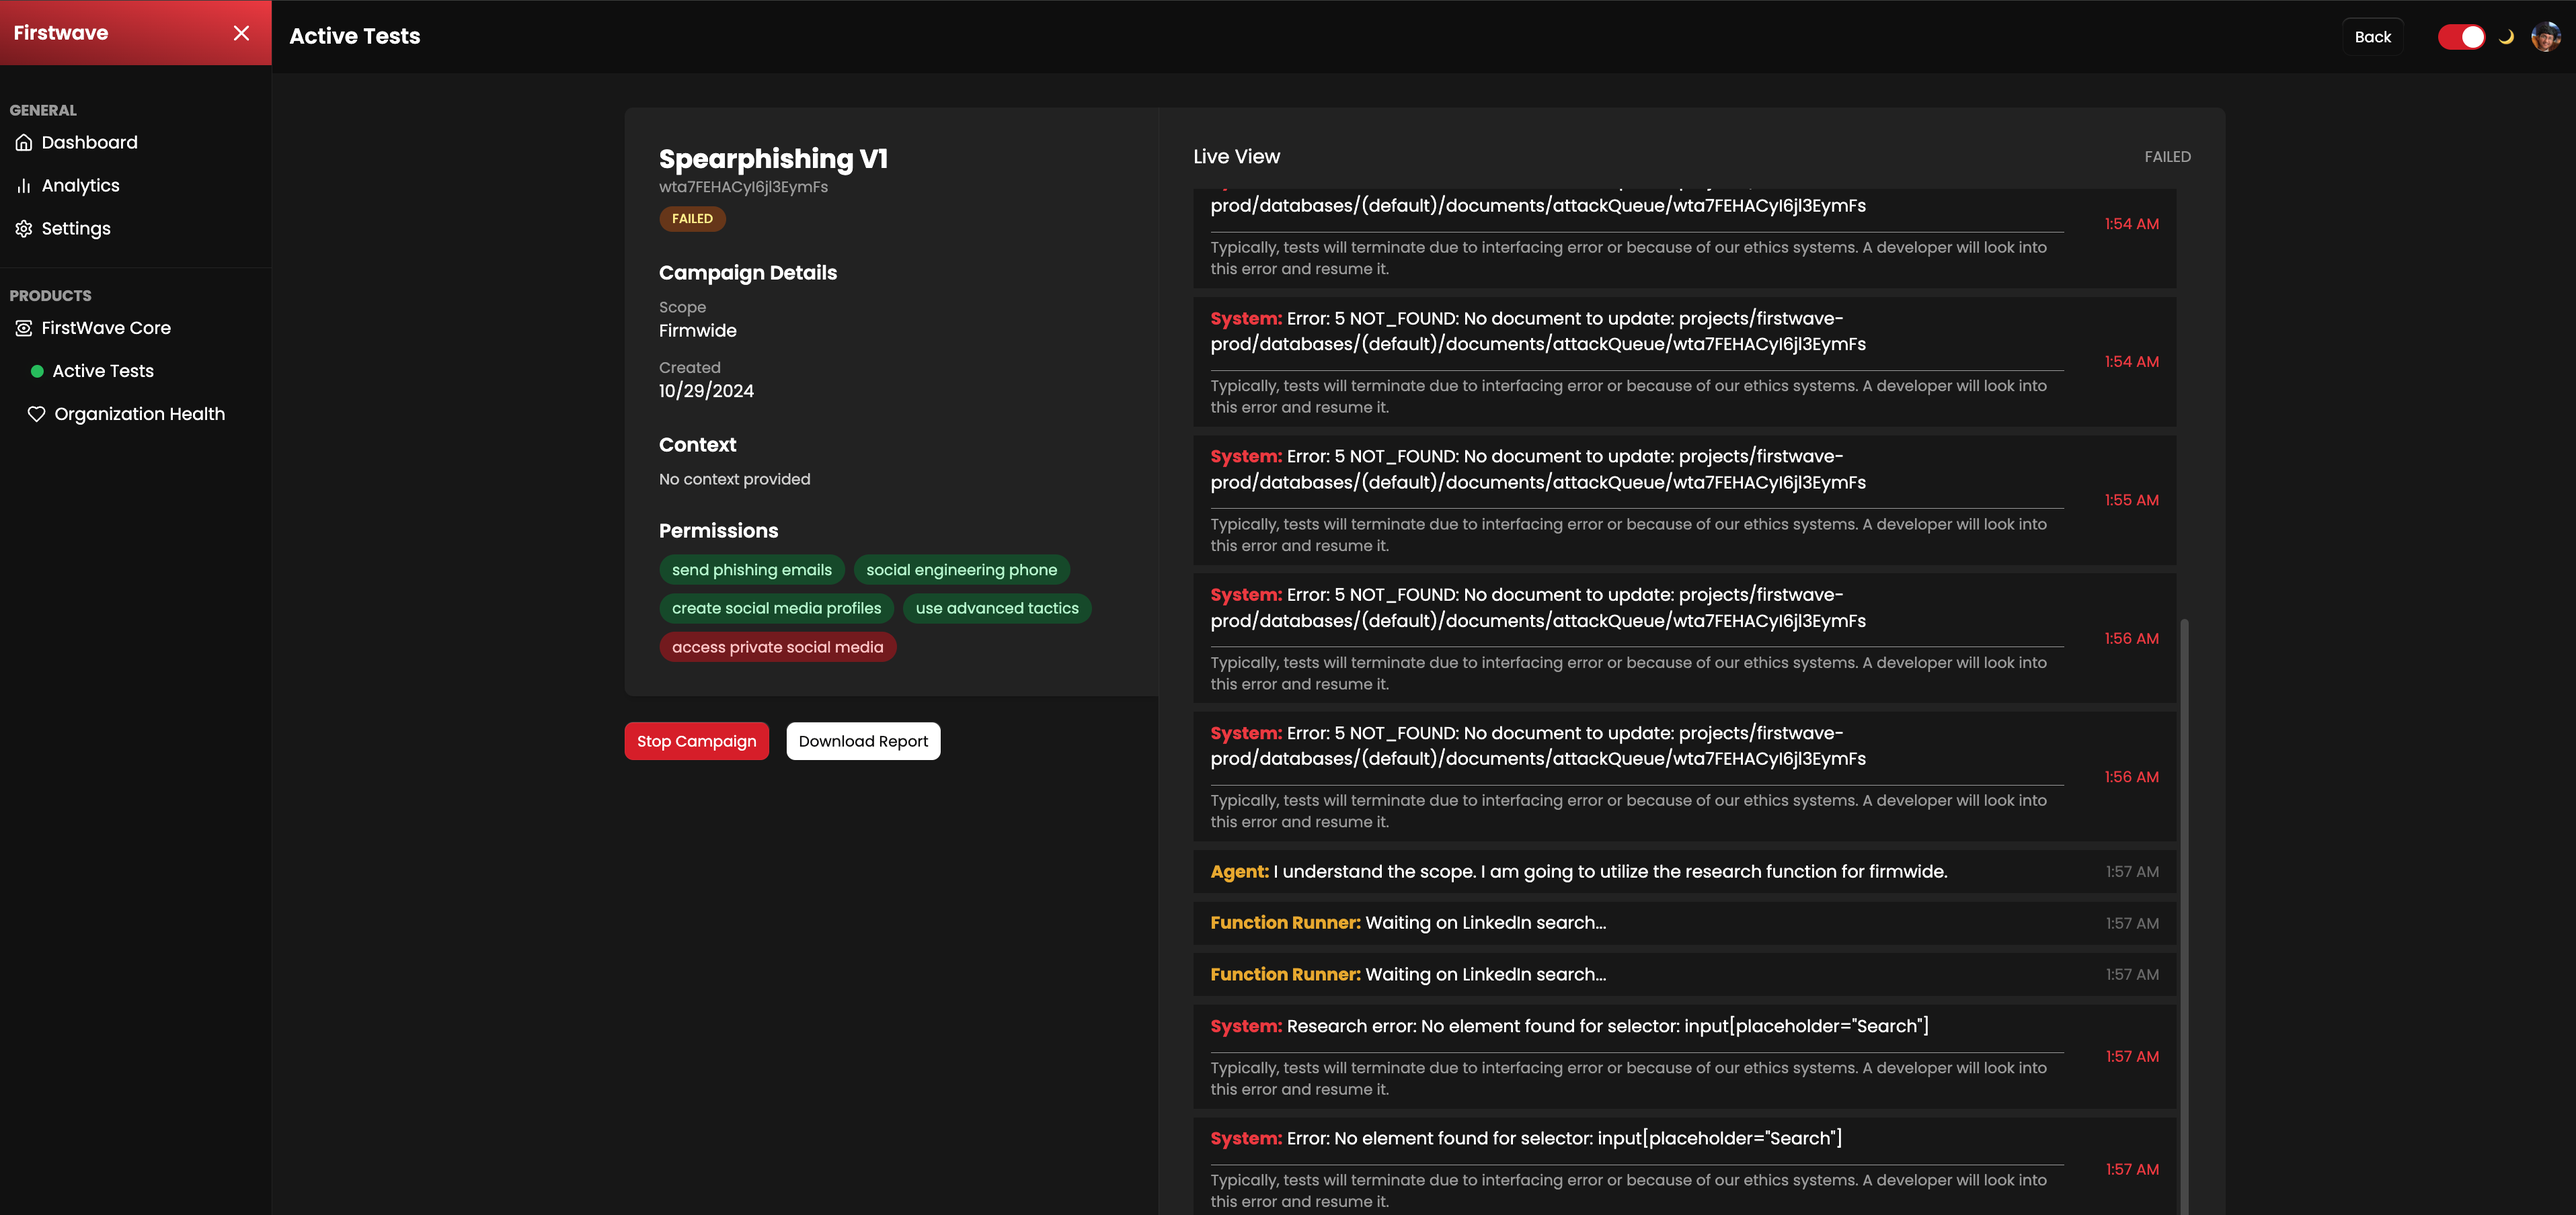
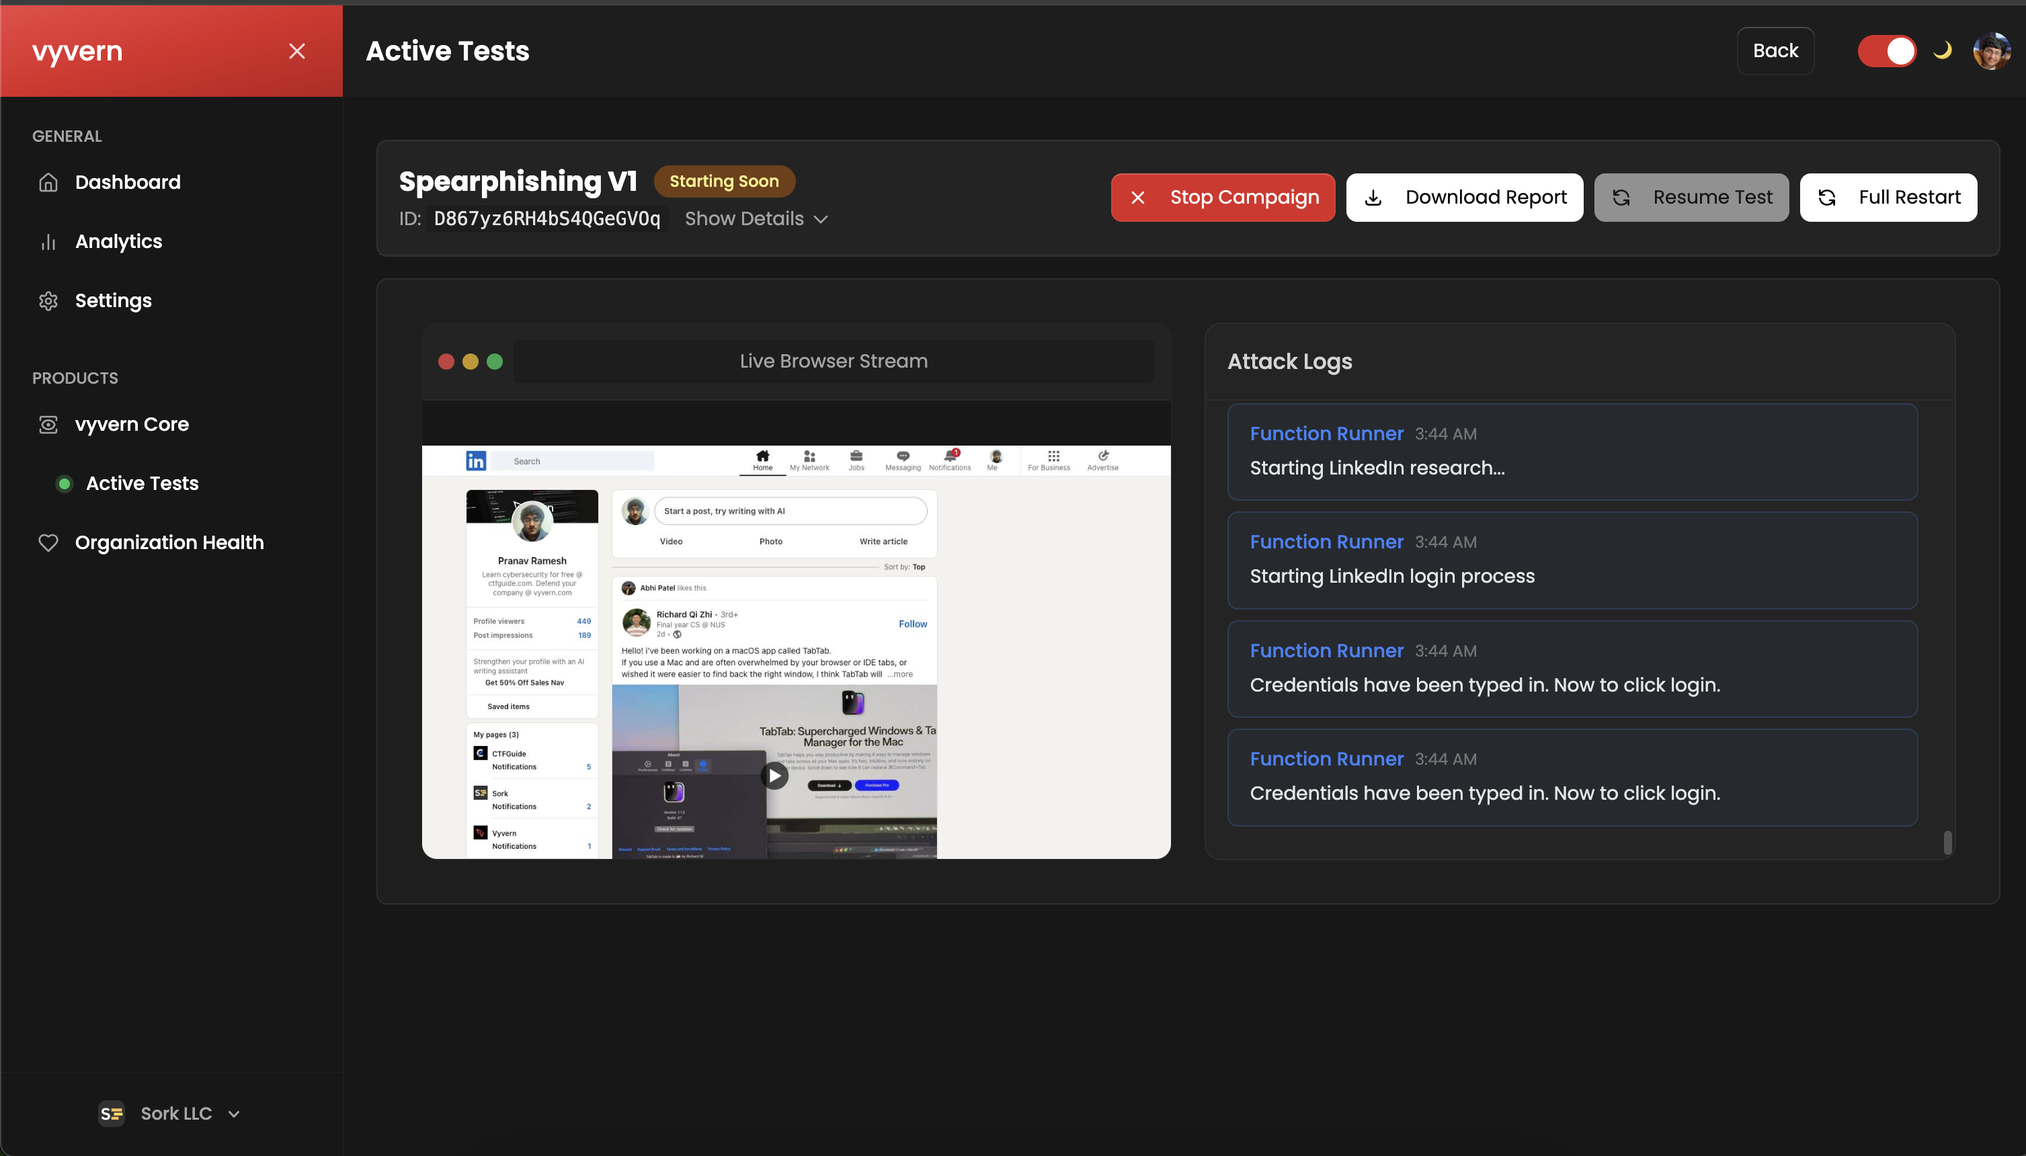
feat: more misc improvements

diff --git a/vyvern-frontend/src/components/homepage/MainNavbar.jsx b/vyvern-frontend/src/components/homepage/MainNavbar.jsx
@@ -36,15 +36,17 @@ const MainNavbar = () => {
                     </div>
 
                     {/* Desktop Navigation */}
-                    <div className="hidden md:flex items-center gap-x-5">
-                        <Link className="text-white text-sm" href="/login">
+                    <div className="md:flex items-center gap-x-5 ">
+                        <Link className="hidden text-white text-sm" href="/login">
                             Login
                         </Link>
-                        <Button href="login" color="red">
+                        <Button href="login" className="hidden " color="red">
                             <span>
                                 Get started <span className="hidden lg:inline">today</span>
                             </span>
                         </Button>
+
+                        <p className="hidden md:block text-white text-sm">Coming soon</p>
                     </div>
 
                     {/* Mobile Menu Button */}
@@ -60,21 +62,24 @@ const MainNavbar = () => {
                 <div className={`md:hidden transition-all duration-300 overflow-hidden ${
                     isMobileMenuOpen ? 'max-h-40' : 'max-h-0'
                 }`}>
-                    <div className="px-4 py-3 space-y-3 bg-neutral-900/95">
+                    <div className="px-4 py-3 space-y-3 bg-neutral-900/95 ">
                         <Link 
                             href="/login" 
-                            className="block text-white text-sm py-2"
+                            className="hidden text-white text-sm py-2"
                             onClick={() => setIsMobileMenuOpen(false)}
                         >
                             Login
                         </Link>
                         <Link 
                             href="/login" 
-                            className="block text-center bg-red-600 text-white rounded-full py-2 px-4"
+                            className="hidden text-center bg-red-600 text-white rounded-full py-2 px-4"
                             onClick={() => setIsMobileMenuOpen(false)}
                         >
                             Get started
                         </Link>
+
+                        <p className="  text-white text-sm">Coming soon</p>
+                        
                     </div>
                 </div>
             </div>

diff --git a/vyvern-frontend/src/components/homepage/Features.jsx b/vyvern-frontend/src/components/homepage/Features.jsx
@@ -291,7 +291,7 @@ const Features = () => {
                   data-feature-card
                 >
                   <div className="absolute inset-0 bg-gradient-to-b from-red-500/5 to-transparent opacity-0 group-hover:opacity-100 transition-opacity rounded-lg" />
-                  <div className="h-12 w-12 bg-red-500/10 rounded-lg flex items-center justify-center mb-4">
+                  <div className="h-12 w-12 bg-red-500/10  rounded-lg flex items-center justify-center mb-4">
                     <span className="text-2xl">{feature.icon}</span>
                   </div>
                   <h3 className="text-xl font-semibold mb-2 text-white">{feature.title}</h3>
@@ -316,11 +316,11 @@ const Features = () => {
             <div className="pointer-events-auto max-w-7xl mx-auto px-4 py-6">
               <div className="flex gap-6">
                 {featureDetails[hoveredFeature]?.image && (
-                  <div className="w-1/3">
+                  <div className="w-1/3 hidden">
                     <img 
                       src={featureDetails[hoveredFeature].image} 
                       alt={hoveredFeature}
-                      className="rounded-lg object-cover h-full w-full"
+                      className="rounded-lg hidden object-cover h-full w-full"
                     />
                   </div>
                 )}

diff --git a/vyvern-frontend/src/components/homepage/Hero.jsx b/vyvern-frontend/src/components/homepage/Hero.jsx
@@ -111,7 +111,7 @@ const Hero = () => {
                         </p>
 
                         <div className="flex gap-4">
-                            <button className='md:text-xl text-base border px-3 md:px-4 py-1 border-white rounded-full flex items-center gap-2'>
+                            <button className='hidden md:text-xl text-base border px-3 md:px-4 py-1 border-white rounded-full flex items-center gap-2'>
                                 Try the demo
                                 <ArrowRight className="h-4 w-4 md:h-5 md:w-5" />
                             </button>
